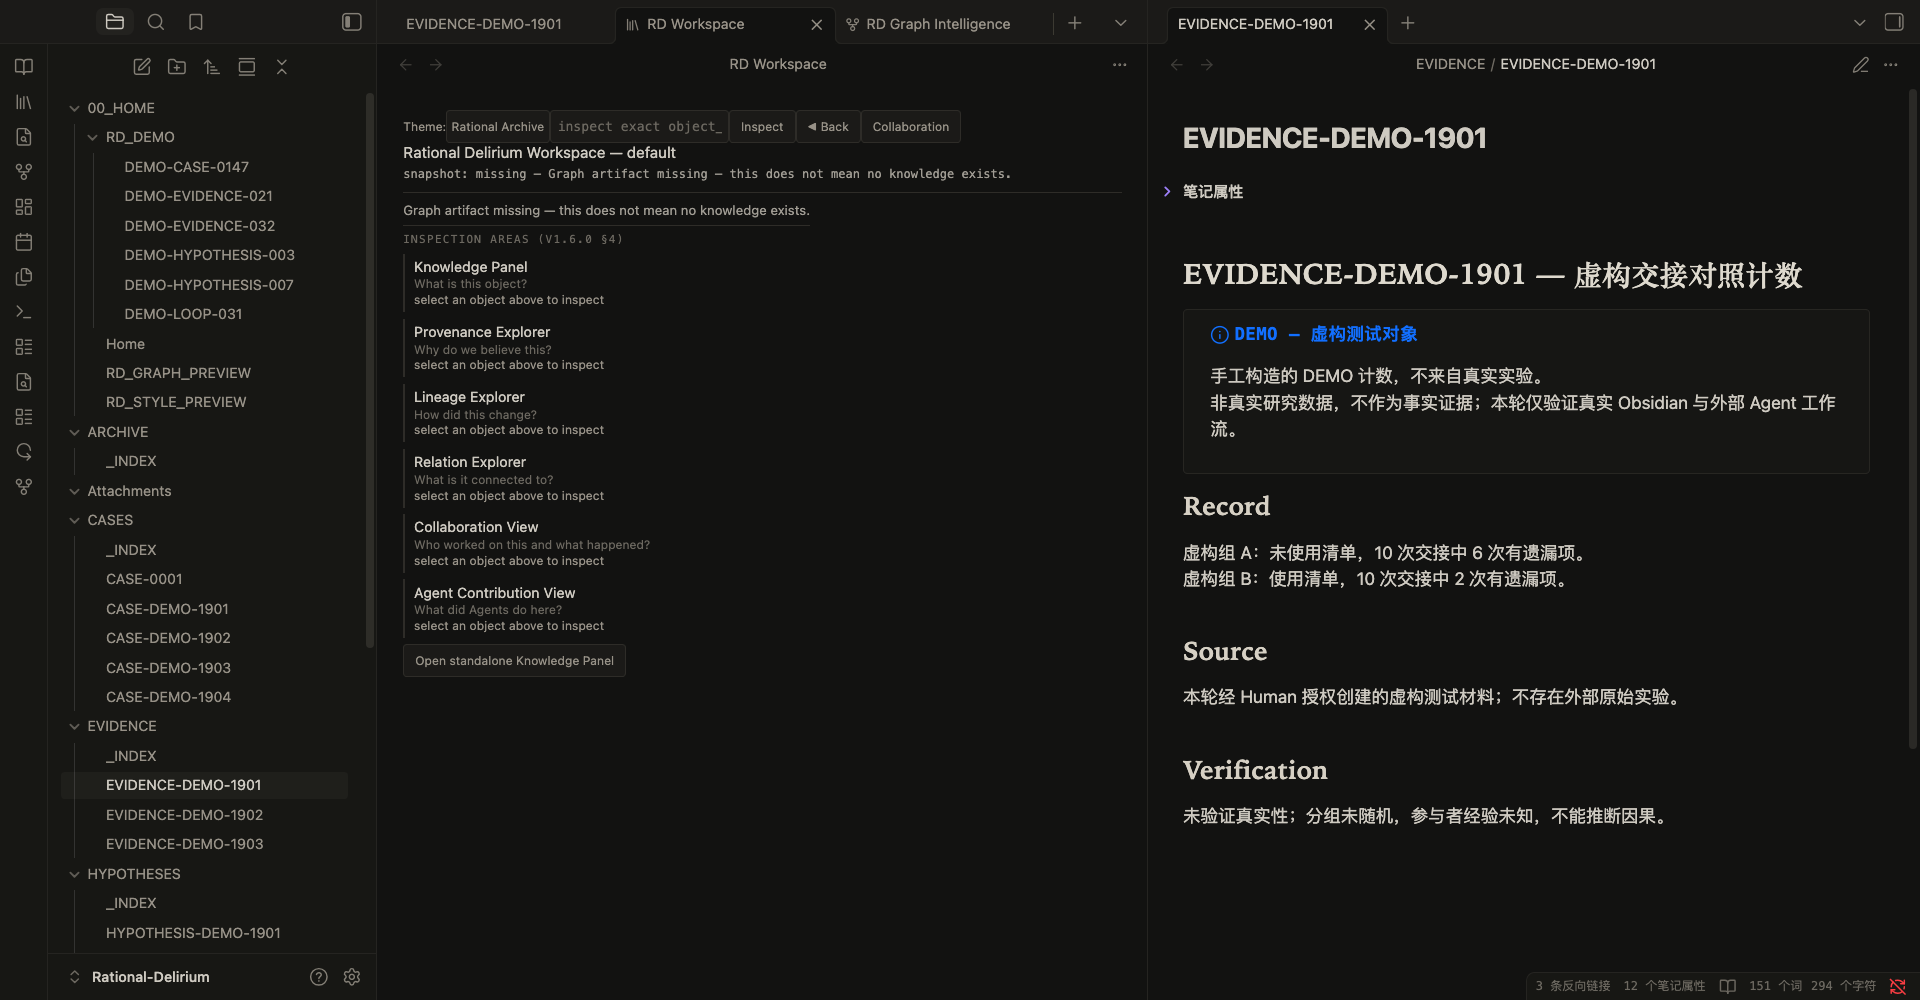
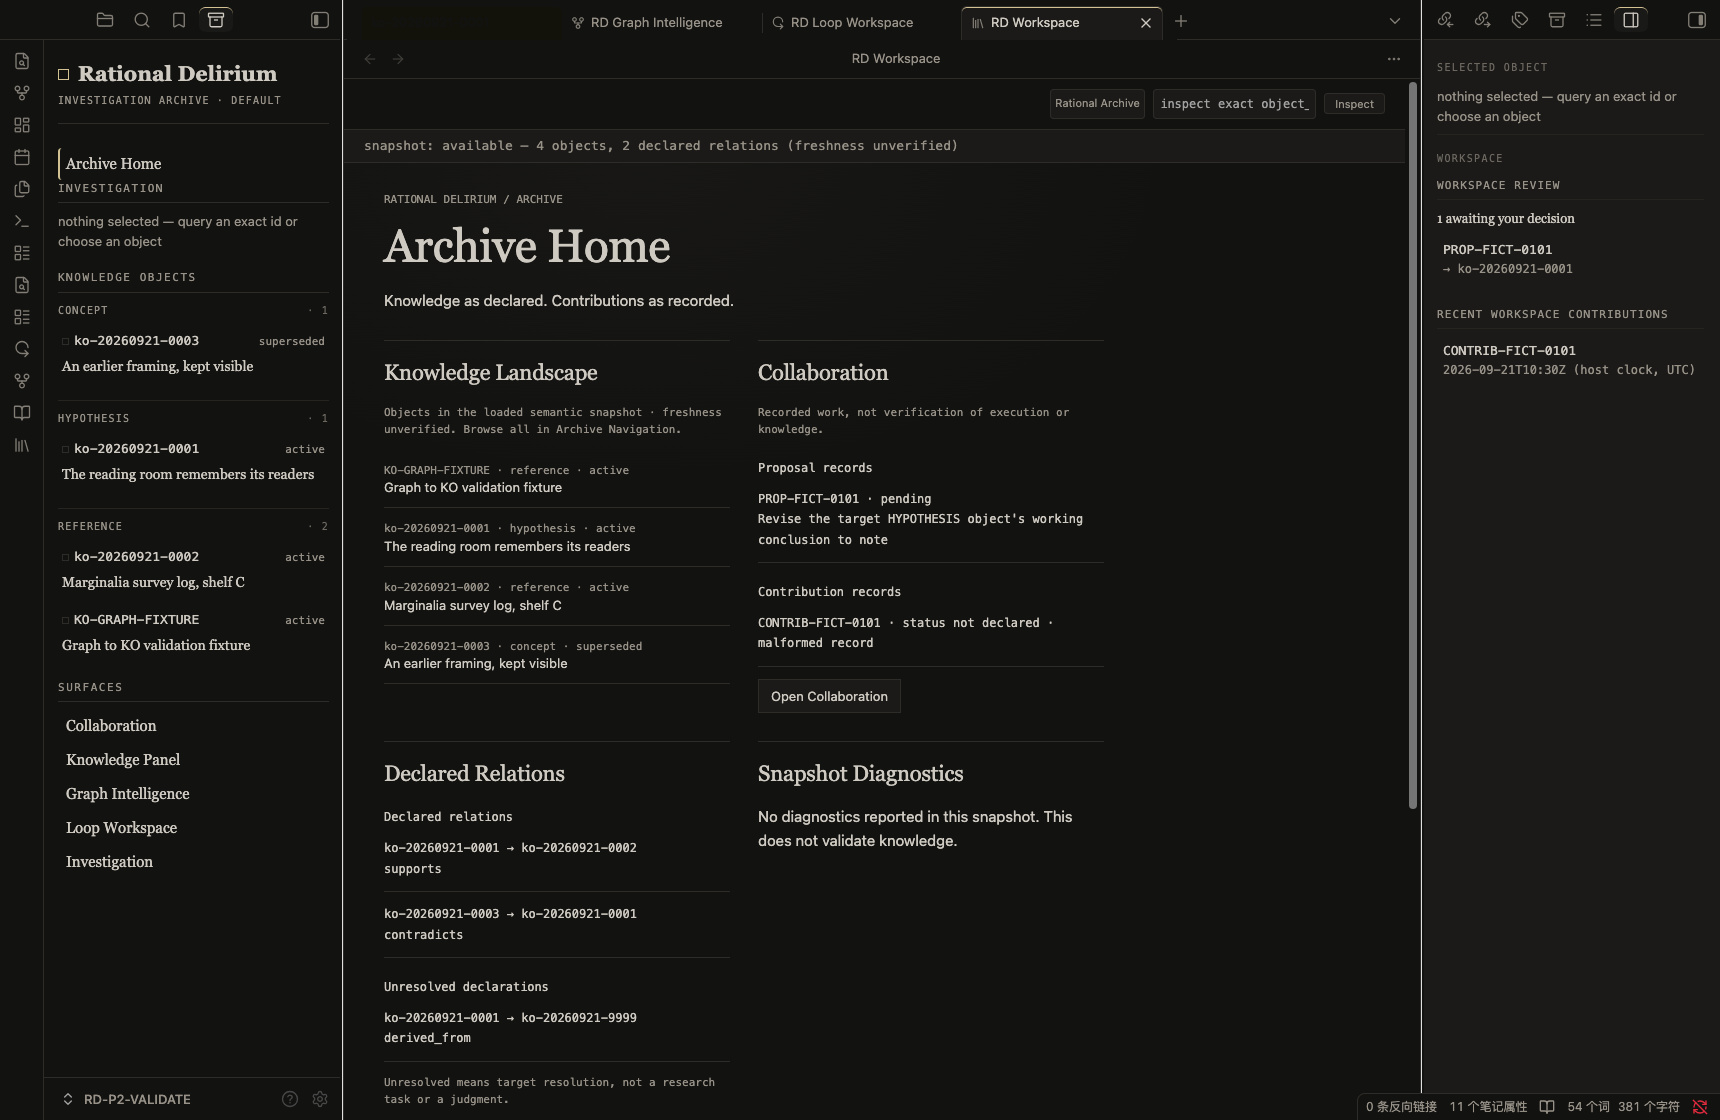
docs(v1.7.0): update release documentation

diff --git a/README.md b/README.md
@@ -1,202 +1,156 @@
 # Rational Delirium
 
-A Human-guided knowledge workspace for [Obsidian](https://obsidian.md).
+**An Obsidian plugin for human-governed knowledge organization.**
 
-Rational Delirium helps people use AI agents for research and knowledge work while keeping human judgment, decisions, and history visible. It records what an agent suggested, what a person approved, and how knowledge changed over time.
+Rational Delirium brings an archival reading and navigation experience to your notes: an Archive Home, Knowledge Object surfaces, declared relationships, provenance, and visible contribution history.
 
-Rational Delirium is **not** an agent platform, **not** an agent runtime, and **not** an autonomous AI system.
+**v1.7.0 — Archive Home Experience** is the frozen baseline for personal use. Start with a copy of your Vault and the tagged build described below.
 
-It is:
+[简体中文](README_zh-CN.md) · [v1.7.0 release notes](docs/releases/v1.7.0-archive-home-experience.md)
 
-- an Obsidian plugin for knowledge exploration and workflow visibility;
-- an Agent Skill contract that guides external agents;
-- a human-controlled workflow connecting proposals, decisions, and contribution records.
+## Overview
 
-External agents contribute proposals, not authority. Humans decide. RD displays the history.
+Markdown remains the source. Obsidian remains the environment. RD provides a knowledge presentation and organization layer inside that environment.
 
-[简体中文](README_zh-CN.md)
+A Knowledge Object is a note with declared identity, type, lifecycle, and supporting context. Its appearance in RD does not certify that its claims are true. Workflow artifacts, such as proposals and contribution records, remain distinct from Knowledge Objects.
 
-## Why Rational Delirium?
+RD is not a separate database, an AI replacement, or an autonomous knowledge manager. It does not run agents or turn their suggestions into accepted knowledge automatically.
 
-AI agents can help with research, analysis, and knowledge organization. However, useful work also needs:
+## Features
 
-- clear reasoning history;
-- visible human decisions;
-- separation between suggestions and accepted changes;
-- records of what actually happened.
+### Archive Home
 
-Rational Delirium provides that layer inside Obsidian.
+Enter your personal knowledge archive through **RD Workspace**. When no object is selected, Archive Home shows:
 
-## Screenshots
+- a landscape of declared objects, kinds, lifecycle states, and titles;
+- existing Proposal and Contribution records;
+- declared relations, unresolved declarations, and snapshot diagnostics.
 
-*Real screenshots from Obsidian on macOS using DEMO content.*
+Counts and lists describe the loaded snapshot or available artifact records, not a live census or a quality score. Returning Home preserves the session's selection history.
 
-| Knowledge Workspace | Semantic Graph |
-| --- | --- |
-| ![Workspace](docs/images/01-workspace.png) | ![Graph](docs/images/02-graph.png) |
+![Archive Home with Archive Navigation and Inspector in Obsidian](docs/images/01-workspace.png)
 
-| Collaboration Surface | Human Decision | Contribution Record |
-| --- | --- | --- |
-| ![Collaboration](docs/images/03-collaboration.png) | ![Decision](docs/images/04-human-decision.png) | ![Contribution](docs/images/05-contribution-record.png) |
+### Knowledge Object Surface
 
-## How It Works
+Read identity, provenance, relations, and lineage alongside the native Markdown experience. Inspect exact object identities and follow declared connections without replacing the underlying note.
 
-```text
-External Agent
-      |
-      v
-RD Skill Contract
-      |
-      v
-Proposal
-      |
-      v
-Human Decision
-      |
-      v
-External Agent executes only explicitly Human-approved scope
-      |
-      v
-Contribution Record
-      |
-      v
-Rational Delirium displays the history
-```
+Provenance separates Observation, Evidence, Inference, and Conclusion. Missing or unresolved information remains visible rather than being filled in by an agent or by the interface.
 
-A proposal is not an action. Human approval is a recorded decision, not truth validation. A contribution record records reported execution provenance, not proof of correctness.
+![Knowledge Object identity, provenance and relations in a native Obsidian note](docs/images/06-knowledge-object.png)
 
-## Architecture Overview
+### Graph Intelligence
 
-```text
-Knowledge data + derived projections
-        |
-        v
-Knowledge Workspace / Graph Views
+Explore declared semantic relationships, their direction, and source context. Navigate between objects while retaining provenance and explicit unresolved states.
 
-Workflow artifacts
-.proposals/
-.contributions/
-.organization-proposals/
-        |
-        v
-Collaboration Surface
-Proposal / Human Decision / Contribution Record
-```
+Graph Intelligence is not Obsidian's general Markdown-link graph, a similarity engine, or a recommendation system. Relationships do not imply confidence, importance, or correctness.
 
-Knowledge views read knowledge data and derived projections. Collaboration reads workflow artifacts independently of the semantic graph snapshot.
+![Graph Intelligence displaying a selected fixture with no declared relations](docs/images/02-graph.png)
 
-The plugin can record explicit Human decisions. It does not execute approved knowledge modifications. An external Agent performs only explicitly Human-approved operations outside RD; the Contribution Record records reported execution provenance, not independent verification.
+*This Graph Intelligence sample has no declared relations; RD shows that empty state rather than inventing connections.*
 
-Knowledge Object (KO) means a note or artifact with identity, provenance, and relationships.
+### Inspector
 
-## Core Features
+The right dock keeps object context, declared fields, and diagnostics accessible while you navigate. Selection is a presentation state; selecting an object does not change its lifecycle or validate its contents.
 
-- **Knowledge Workspace** — explore identity, provenance, lineage, relations, and context.
-- **Semantic Graph Projection** — deterministic read-only graph projection from declared relationships.
-- **Collaboration Surface** — view proposals, decisions, and contribution history.
-- **Human Decision Recording** — explicit approval or rejection of pending proposals.
-- **Agent Skill Contract** — guidance for external agents: propose, wait, execute approved scope, record.
-- **Theme System** — Rational Archive visual language with semantic UI tokens.
+### Obsidian Integration
 
-## Design Principles
+RD uses real Obsidian views and dock leaves. Your Vault, native Markdown, Live Preview, Properties, and ordinary note editing remain part of the host application.
 
-- **Knowledge ≠ Truth** — stored objects record claims and provenance.
-- **Projection ≠ Authority** — appearing in a graph does not prove correctness.
-- **Agent Contribution ≠ Human Decision** — agent output is input for human judgment.
-- **Relationship ≠ Confidence** — declared relations carry no score or weight.
-- **Visibility ≠ Validation** — being displayed is not endorsement.
+The left Archive Navigator, central Workspace, and right Inspector work together without replacing Obsidian. RD styles its own surfaces and identified Knowledge Object presentation; ordinary notes retain their native editing experience.
 
-No truth scores, confidence meters, rankings, or automatic merging.
+*Screenshots above are from the actual v1.7.0 plugin running in Obsidian 1.13.7 on macOS, using fictional validation content. They are not mockups or research evidence.*
 
-## 5-Minute Quick Start
+## Quick Start
 
-### For Obsidian users
+This checkpoint uses manual desktop installation. The frozen manifest requires **Obsidian 1.13.7 or later** and marks the plugin as desktop-only.
 
-1. Obtain the four plugin files from `dist/` (see the build steps below): `main.js`, `manifest.json`, `styles.css`, and `tokens-rational-archive.css`.
-2. Copy all four files into `<vault>/.obsidian/plugins/rational-delirium/`.
-3. Enable Rational Delirium in Obsidian settings.
-4. Use the command palette to run **Open RD Workspace**.
-5. Open **Collaboration** from RD Workspace to view existing Proposals, Human Decisions, and Contribution Records. External agents create the workflow artifacts; RD does not run agents.
+1. Obtain these four files from the frozen tag's `dist/` directory:
+   - `main.js`
+   - `manifest.json`
+   - `styles.css`
+   - `tokens-rational-archive.css`
+2. Copy them into `<vault>/.obsidian/plugins/rational-delirium/`.
+3. Enable Rational Delirium under Obsidian's Community plugins settings.
+4. Run **Open RD Workspace** from the command palette.
+5. Use **Archive Home** in the left navigator, select an existing object, or open **Collaboration** to inspect workflow records.
 
-### For developers building from source
+To build the exact checkpoint from source, with Node.js and npm installed:
 
 ```bash
-git clone https://github.com/MkaliezZ/rational-delirium-ui
+git clone https://github.com/MkaliezZ/rational-delirium-ui.git
 cd rational-delirium-ui
+git checkout v1.7.0-archive-home-experience
 npm ci
 npm run build
 ```
 
-Copy the four generated plugin files listed above from `dist/` into:
+Copy the four resulting files from `dist/` as described above. RD does not populate your Vault with sample knowledge or create a semantic snapshot during installation.
+
+The release/checkpoint label is **v1.7.0**. The frozen plugin manifest still reports **0.4.4**; that is the expected installed version label for this tag, not evidence that a different checkpoint was installed. Use the tag to identify the build.
+
+## Using Agents with Rational Delirium
+
+External agents can assist research, prepare Knowledge Objects, and propose organizational changes. They remain contributors; humans retain knowledge authority.
 
 ```text
-<vault>/.obsidian/plugins/rational-delirium/
+External Agent
+      ↓
+Read the RD Skill
+      ↓
+Prepare proposed Knowledge Object creation / organization
+      ↓
+Explicit Human review and scoped decision
+      ↓
+Human applies the approved change under the documented workflow
+      ↓
+Markdown in the Obsidian Vault + contribution records
+      ↓
+RD presentation
 ```
 
-## Agent Workflow Example
+Begin with the [Rational Delirium Agent Skill](skills/rational-delirium-agent-skill.md). The bundled Skill's default workflow ends in **Human apply**. Loading it grants no write permission and does not install an agent runtime.
 
-1. Agent reads the RD Skill.
-2. Agent inspects knowledge objects.
-3. Agent creates a Proposal.
-4. Human approves or rejects in Obsidian.
-5. External Agent performs only the explicitly Human-approved operation outside RD.
-6. Agent creates a Contribution Record.
-7. RD displays the complete chain.
+An agent should inspect exact object identities, preserve sources and uncertainty, and submit traceable proposals. Do not treat a proposal, model confidence, or previous approval as permission for another change. Any separately authorized external execution must stay within the explicit Human-approved scope; RD does not execute that operation for the agent.
 
-Example:
+The Collaboration surface reads `.proposals/`, `.contributions/`, and `.organization-proposals/`. The plugin can record explicit Human decisions. A decision is not truth validation, and a Contribution Record describes reported work rather than independently proving success or correctness.
+
+## Architecture and Boundaries
 
 ```text
-Proposal:
-ADD_RELATION — Evidence supports Hypothesis
+Obsidian Vault: Markdown declarations and workflow artifacts
+   ├─ Knowledge data / derived projections → RD knowledge views
+   └─ Proposal / Contribution artifacts    → Collaboration
 
-Decision:
-Approved by Human
-
-Execution:
-External Agent performs only explicitly Human-approved scope
-
-Record:
-Contribution Record stores reported execution provenance
+Human decisions remain separate from Agent contributions.
 ```
 
-## Current Status — FROZEN
+Archive Home and Workspace consume the shared semantic snapshot. Graph Intelligence retains its existing index-derived relationship projection; the two contracts are not merged into a second source of truth. Neither view generates missing relations or repairs source knowledge.
 
-Development is paused after validation milestones.
+- **Knowledge ≠ Truth**
+- **Projection ≠ Authority**
+- **Agent Contribution ≠ Human Decision**
+- **Relationship ≠ Confidence**
+- **Visibility ≠ Validation**
 
-| Milestone | Status |
-| --- | --- |
-| v1.9 Agent Skill Workflow Validation | FROZEN |
-| v1.10 Real Agent Usage Validation | PASSED |
+No confidence scores, AI ranking, automatic approval, or automatic organization are introduced by this release.
 
-Real Obsidian usage has been validated with:
+## Validation and Current Status
 
-- Codex on macOS;
-- WorkBuddy + GLM 5.3 on Windows.
+Frozen tag: `v1.7.0-archive-home-experience`
 
-Validated workflow:
+Runtime commit: `3d542ff22e9fd8e309201546b6609b54302dd60d`
 
-```text
-Proposal → Human Decision → Contribution Record → Relation Display
-```
+The v1.7.0 checkpoint passed the automated suite, TypeScript checking, and build. Real Obsidian validation on macOS covered cold launch, restored workspace, warm reopen, Archive Home, Knowledge Object Surface, Inspector, Graph Intelligence, Loop, and Collaboration. Knowledge files remained unchanged during the read-only runtime checks.
 
-Validation covered external Agent workflow compatibility, cross-device artifact compatibility, Obsidian cold start, and warm reload.
+Earlier workflow trials covered Codex on macOS and WorkBuddy + GLM 5.3 on Windows, including Proposal → Human Decision → Contribution Record → Relation Display. Those trials do not establish a new Windows v1.7.0 runtime result, universal agent compatibility, or autonomous approval.
 
-These results cover the tested environments and workflow. They do not establish compatibility with all Agents or validate all multi-Agent scenarios or autonomous approval. Relation display shows a declared relationship, not truth validation.
+## Availability and Limitations
 
-## Limitations
+Workspace views that depend on the semantic snapshot require a valid `semantic-graph/graph.json`. RD does not automatically generate or repair it. Missing, invalid, unavailable, and empty snapshots are distinct states. A missing snapshot does not mean the Vault has no knowledge and does not block Collaboration.
 
-Views depending on semantic graph snapshots require a valid `semantic-graph/graph.json`. The plugin does not automatically generate or repair this snapshot. A missing snapshot does not mean the Vault has no knowledge and does not block the Collaboration workflow.
+Snapshot loading does not establish freshness. An unresolved declaration reports target resolution, not a task or a verdict. Diagnostics do not certify truth. Contribution records may be incomplete and are displayed as recorded.
 
-Rational Delirium intentionally does not:
-
-- run or schedule agents;
-- call AI models;
-- replace human decisions;
-- automatically organize your vault;
-- automatically validate truth;
-- perform autonomous vault changes.
-
-Development resumes only from real usage feedback, clear user pain points, or concrete validation needs.
+Use this baseline for human-led organization and exploration. It is not a background agent service, automatic conflict resolver, or replacement for your review and backup practices.
 
 ## License
 

diff --git a/docs/releases/v1.7.0-archive-home-experience.md b/docs/releases/v1.7.0-archive-home-experience.md
@@ -1,0 +1,62 @@
+# Rational Delirium v1.7.0 — Archive Home Experience
+
+Rational Delirium is an Obsidian plugin for human-governed knowledge organization. This checkpoint establishes an Archive Home entry experience on the existing RD Workspace and stabilizes its lifecycle during Obsidian layout restoration.
+
+- **Tag:** `v1.7.0-archive-home-experience`
+- **Target commit:** `3d542ff22e9fd8e309201546b6609b54302dd60d`
+- **Release scope:** the frozen plugin checkpoint; subsequent documentation does not retarget the tag.
+
+## Major features
+
+- **Archive Home:** a landing state inside RD Workspace, presenting declared objects, existing collaboration records, relations, unresolved declarations, and snapshot diagnostics.
+- **Rational Archive shell:** Archive Navigator, central Workspace, and Inspector in actual Obsidian leaves.
+- **Knowledge Object Surface:** identity, provenance, relations, and lineage alongside native Markdown and Properties.
+- **Graph Intelligence:** declared relationship exploration with direction, source context, and provenance-preserving navigation.
+- **Native integration:** existing Markdown, Live Preview, ordinary notes, and host navigation remain available.
+
+The shell, Knowledge Object Surface, and Graph Intelligence are included capabilities of the baseline; they were not all newly introduced by the Archive Home change.
+
+## Lifecycle stabilization
+
+Shell activation now waits for Obsidian layout readiness before supplying missing dock leaves. Explicit view activation also waits for restoration. Deferred Markdown leaves without a file are handled without dereferencing an unavailable path; stale asynchronous work is discarded when its view is no longer current.
+
+## Architecture guarantees
+
+- Markdown remains the source; graph state is derived presentation, not authority.
+- Home reuses the shared Workspace snapshot and Collaboration browser. It adds no ItemView, database, index, or loader.
+- Graph Intelligence and Workspace retain their distinct data contracts.
+- No schema, relation semantics, provenance semantics, Agent Skill, Bridge, or Mutation Gate change is included in the Home milestone.
+- No confidence scoring, inferred relationships, AI recommendations, or automatic approval is introduced.
+- Human decision recording remains separate from knowledge execution. A contribution record is reported provenance, not independent verification.
+
+## Validation
+
+For the frozen target commit:
+
+- Automated tests: **575/575 passed**.
+- TypeScript check: **passed**.
+- Build: **passed**.
+- Actual Obsidian **1.13.7 on macOS**, isolated `RD-P2-VALIDATE` Vault: **passed** for cold launch, layout restoration, warm reopen, Home, KO Surface, Inspector, Graph, Loop, and Collaboration.
+- Final runtime checks: no captured runtime errors; knowledge-file hashes unchanged.
+
+These are bounded results for the tested environment. They do not certify every Obsidian version, third-party plugin combination, Windows v1.7.0 runtime, or multi-agent execution scenario.
+
+## Installation and usage recommendation
+
+Start with a copy of an existing Vault. Obtain `main.js`, `manifest.json`, `styles.css`, and `tokens-rational-archive.css` from this tag's `dist/`, or build this exact tag with `npm ci` and `npm run build`. Copy all four into `<vault>/.obsidian/plugins/rational-delirium/`, enable the plugin, and run **Open RD Workspace**.
+
+This is a manual desktop installation checkpoint. The frozen manifest requires Obsidian 1.13.7 or later and still reports plugin version **0.4.4**. The **v1.7.0** tag identifies the release checkpoint; no manifest or runtime file was changed for this documentation preparation.
+
+Use external agents for proposals and traceable contributions under the bundled Skill and explicit Human review. The Skill grants no permissions; its default workflow uses Human apply. RD does not run agents or execute approved knowledge modifications.
+
+## Known boundaries
+
+- Snapshot-dependent Workspace views need `semantic-graph/graph.json`; the plugin does not generate or repair it.
+- Missing snapshot does not mean empty knowledge and does not block Collaboration.
+- Loaded snapshots are not automatically verified as fresh.
+- Unresolved declarations and diagnostics describe recorded structure, not correctness.
+- The legacy `npm run check-artifacts` script still expects three distribution files and rejects the existing fourth token stylesheet. It was not a passing validation gate; the build and runtime checks above are separate results.
+
+## Publication preparation
+
+Publish these notes against the existing tag. No additional tag, main-branch merge, or GitHub Release is created by the documentation preparation task. No packaged release attachments are promised here.
